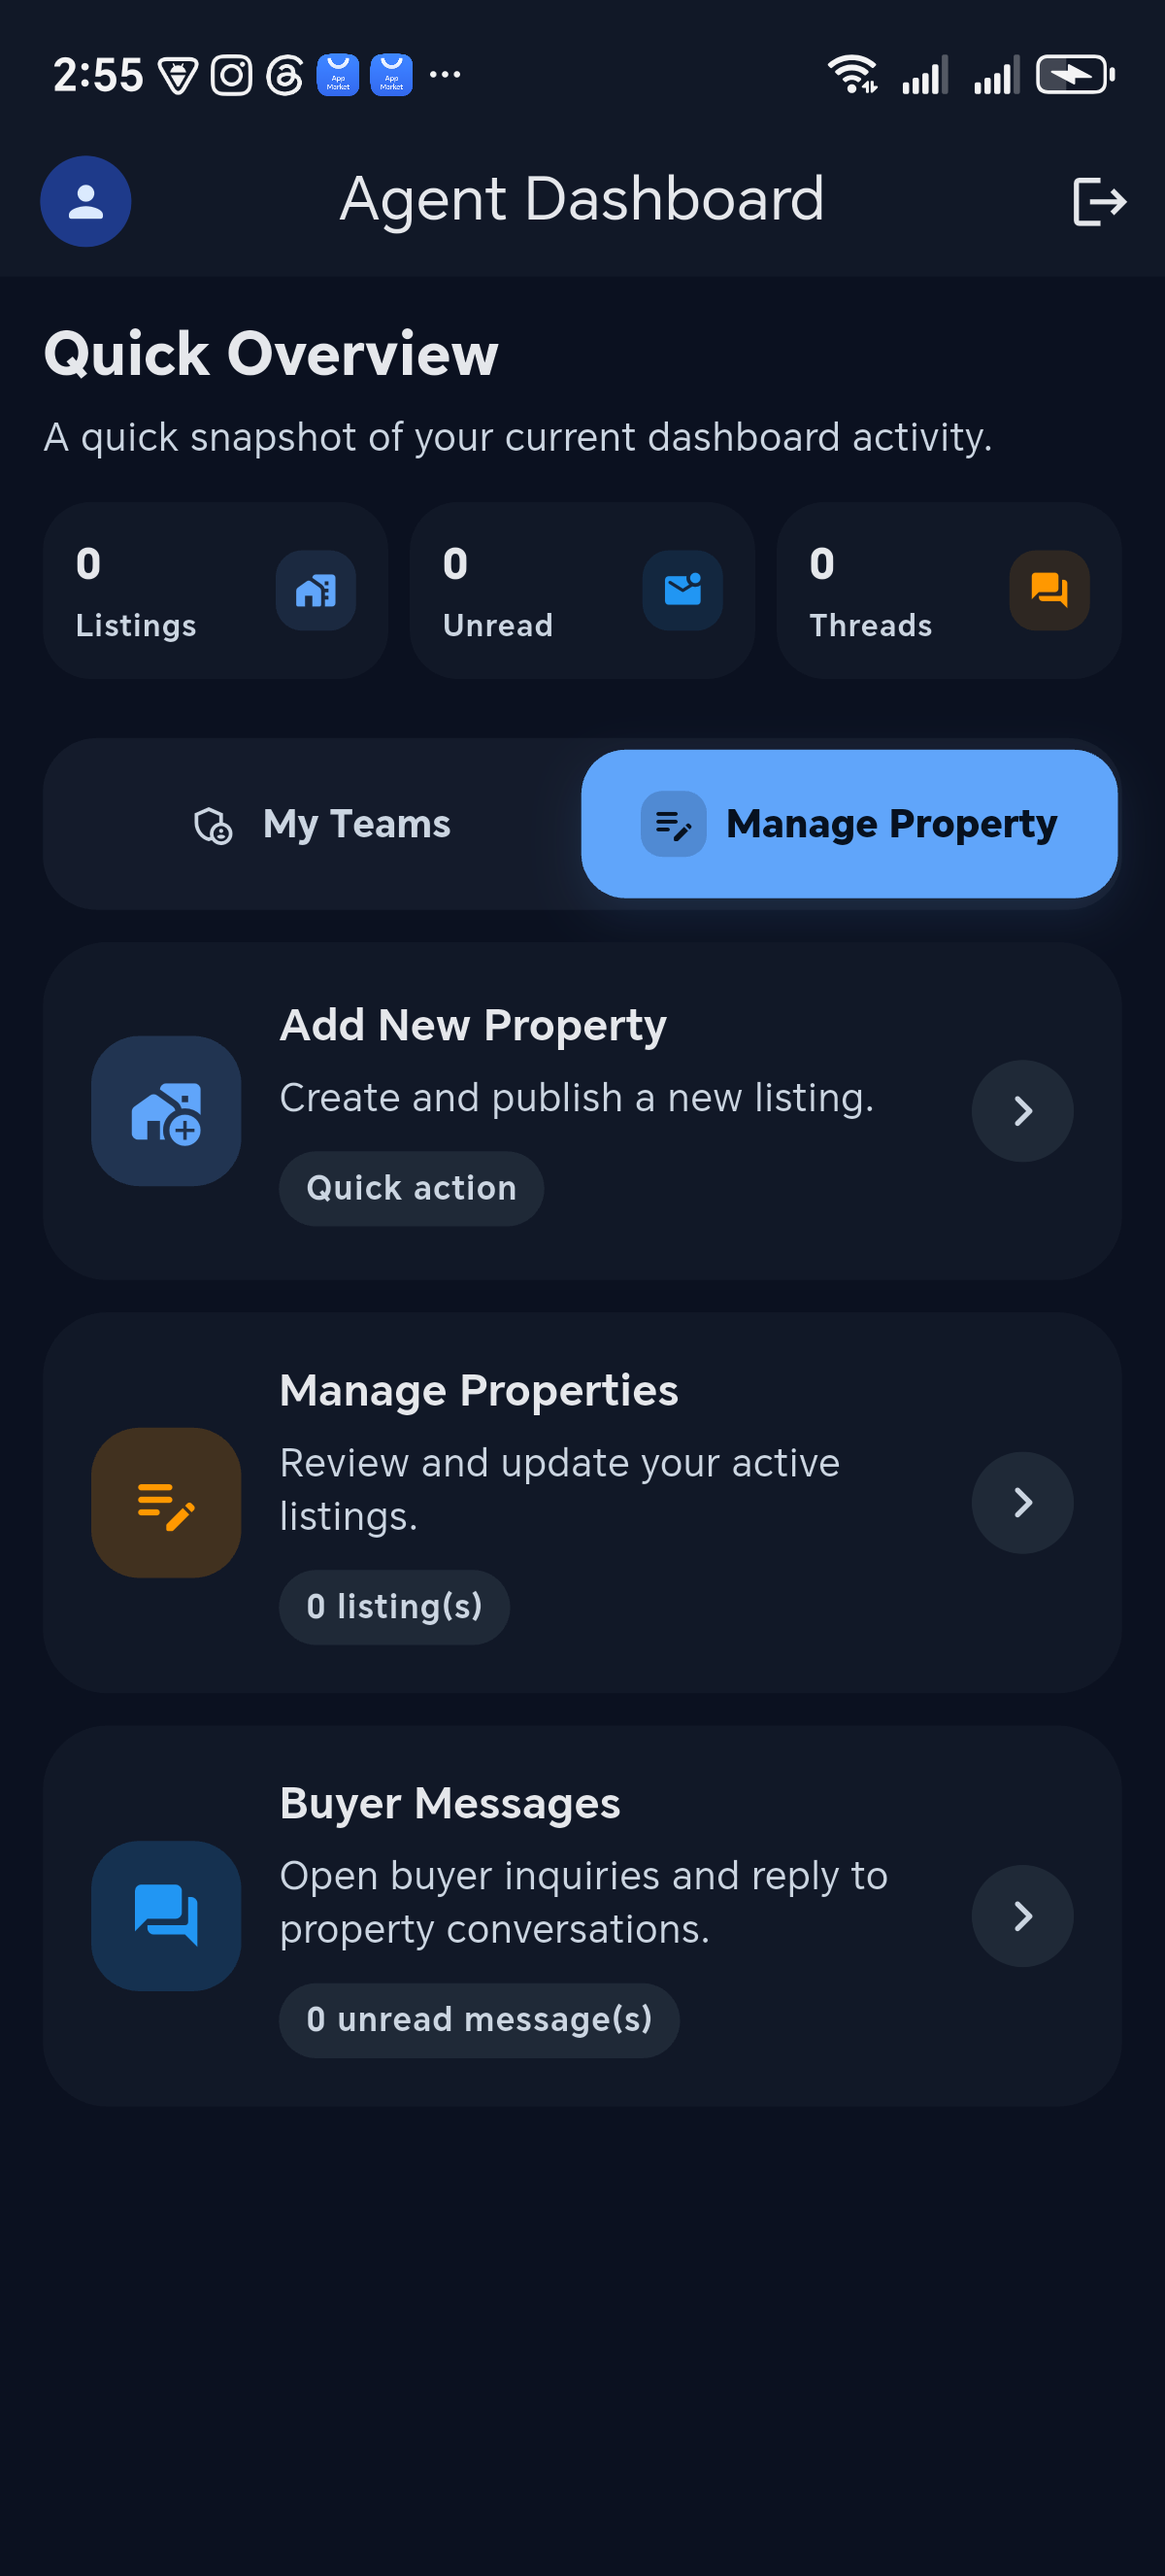
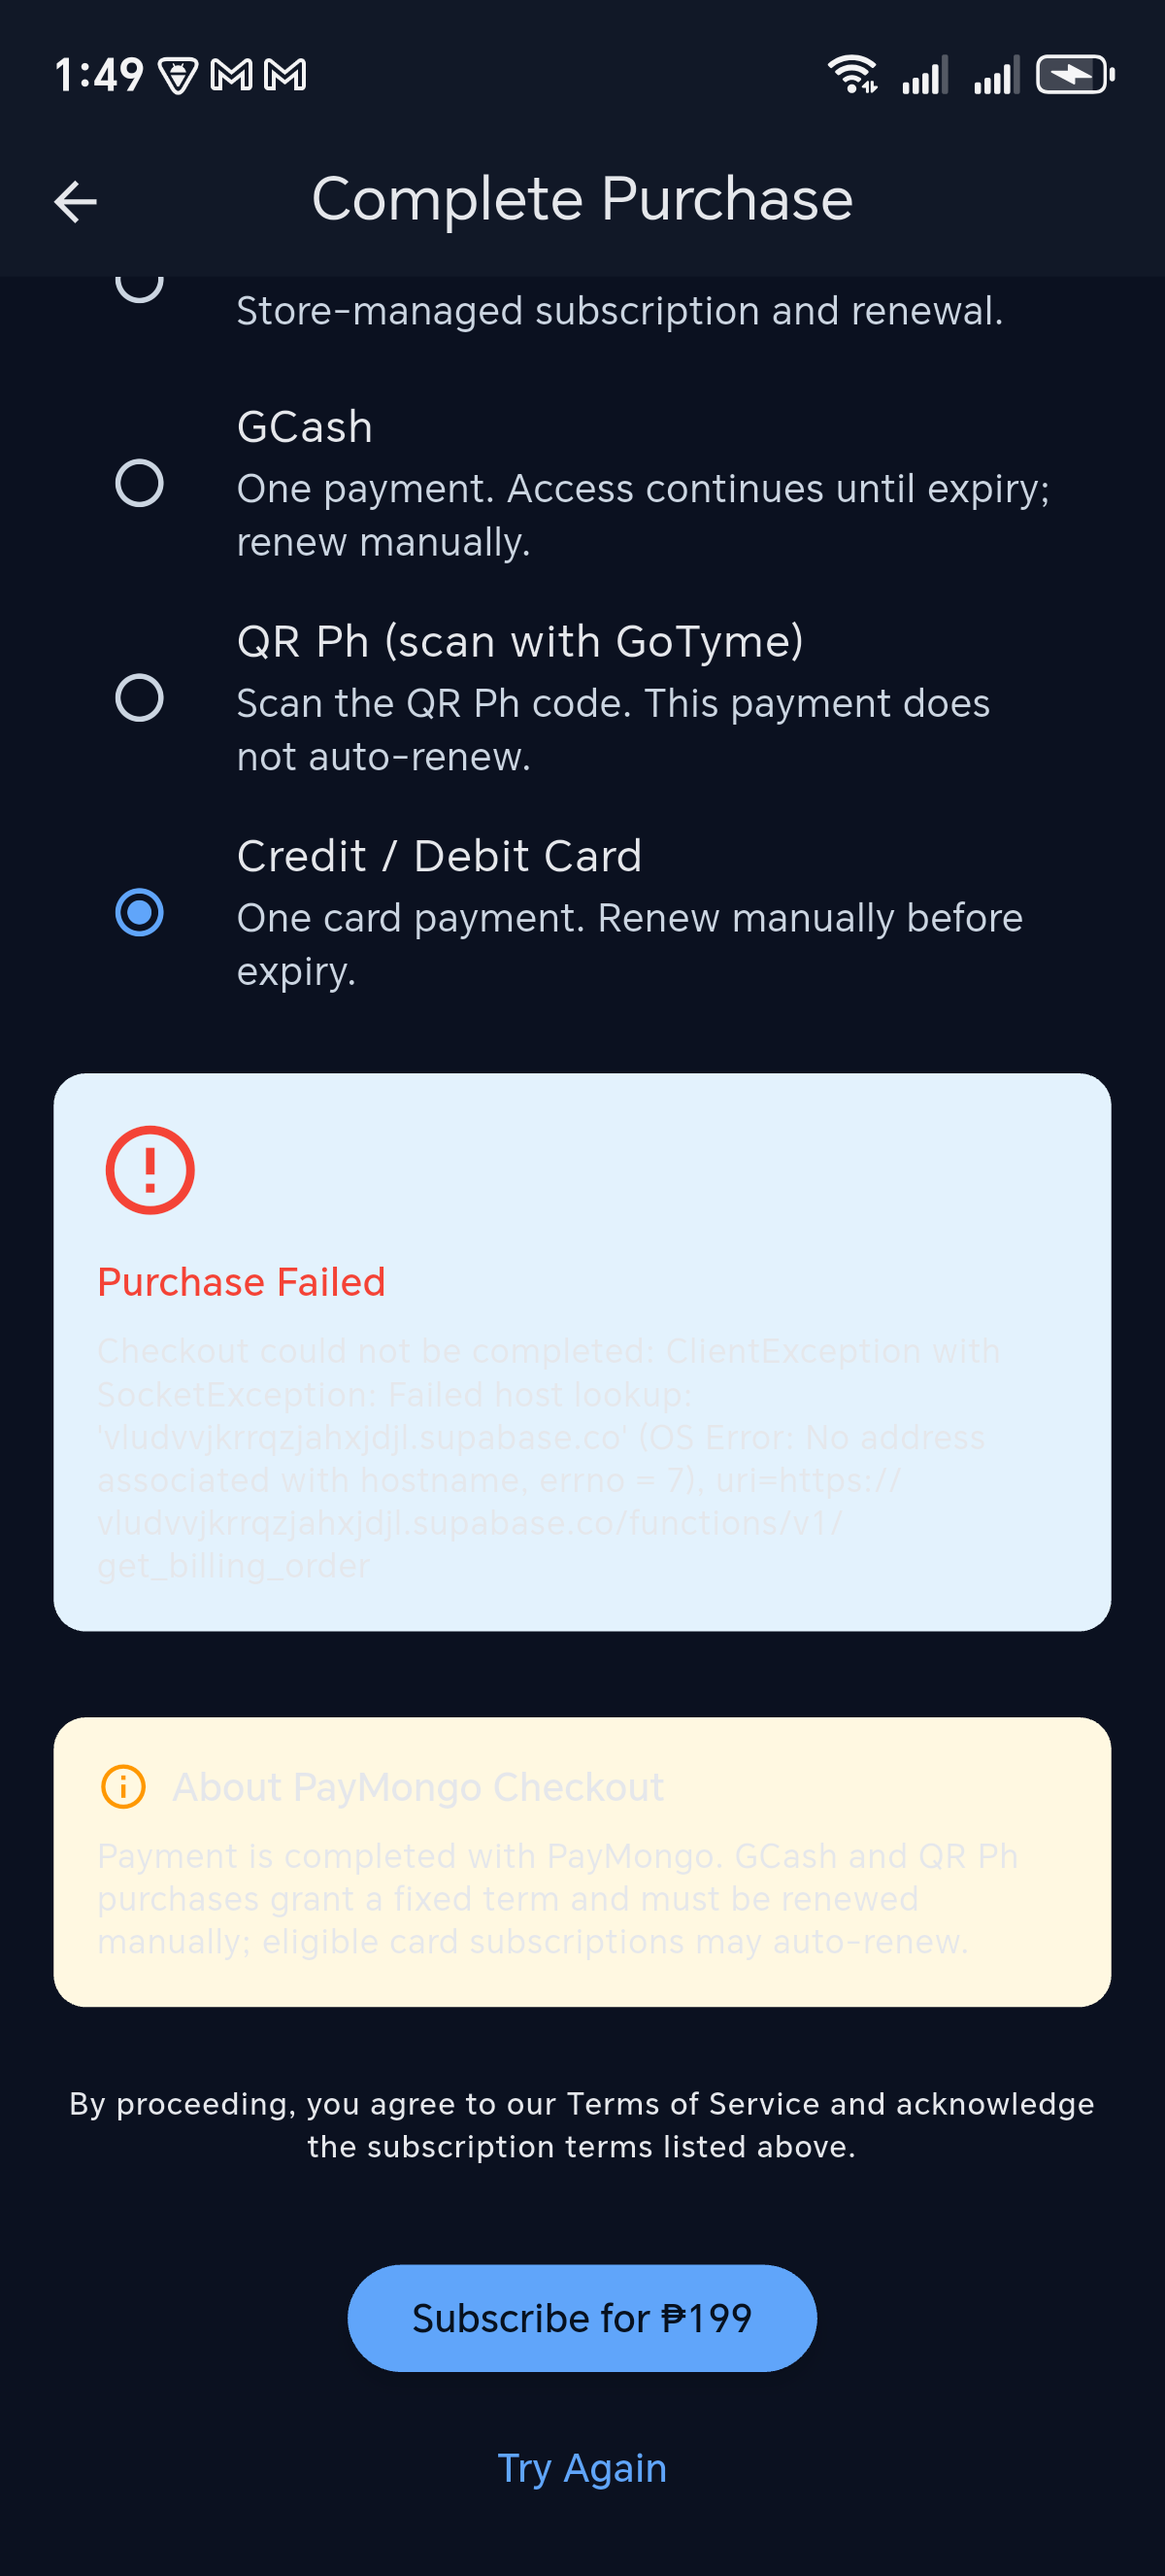
feat: enhance PayMongo webhook processing and improve security policies

diff --git a/supabase/functions/paymongo_webhook/index.ts b/supabase/functions/paymongo_webhook/index.ts
@@ -23,17 +23,42 @@ serve(async (request) => {
     const payload = JSON.parse(rawBody);
     const event = payload.data;
     const attributes = event?.attributes ?? {};
-    const payment = attributes.data?.attributes;
+    const providerResource = attributes.data;
+    const resourceAttributes = providerResource?.attributes;
     const eventId = event?.id;
-    if (!eventId || !payment) {
+    const eventType = attributes.type ?? attributes.event_type ?? "";
+    if (!eventId || !providerResource || !resourceAttributes) {
       return Response.json({ error: "Invalid event" }, { status: 400 });
     }
-    const providerPayment = attributes.data;
-    const metadata = payment.metadata ?? {};
-    const orderId = metadata.local_order_id ?? metadata.order_id;
-    if (!orderId) return Response.json({ error: "Missing order reference" }, { status: 400 });
 
-    const eventType = attributes.type ?? attributes.event_type ?? "";
+    const isCheckoutPaid =
+      eventType === "checkout_session.payment.paid" &&
+      providerResource.type === "checkout_session";
+    const paymentIntent = resourceAttributes.payment_intent;
+    const payment = isCheckoutPaid
+      ? {
+        id: paymentIntent?.id,
+        amount: paymentIntent?.attributes?.amount,
+        currency: paymentIntent?.attributes?.currency,
+        metadata: resourceAttributes.metadata ??
+          paymentIntent?.attributes?.metadata ?? {},
+        status: "paid",
+      }
+      : {
+        id: providerResource.id,
+        amount: resourceAttributes.amount,
+        currency: resourceAttributes.currency,
+        metadata: resourceAttributes.metadata ?? {},
+        status: resourceAttributes.status,
+      };
+    if (!payment.id || !payment.amount || !payment.currency) {
+      return Response.json({ error: "Invalid payment resource" }, { status: 400 });
+    }
+    const orderId = payment.metadata.local_order_id ?? payment.metadata.order_id;
+    if (!orderId) {
+      return Response.json({ error: "Missing order reference" }, { status: 400 });
+    }
+
     const paymentStatus = String(payment.status ?? "").toLowerCase();
     const status = paymentStatus === "paid"
       ? "paid"
@@ -49,7 +74,7 @@ serve(async (request) => {
         ? new Date(attributes.created_at * 1000).toISOString()
         : new Date().toISOString(),
       order_id: orderId,
-      payment_id: providerPayment.id,
+      payment_id: payment.id,
       amount_minor: payment.amount,
       currency: payment.currency,
       status,

diff --git a/supabase/functions/_shared/paymongo.ts b/supabase/functions/_shared/paymongo.ts
@@ -56,9 +56,17 @@ export async function verifySignature(
   const parts = signatureHeader.split(",");
   const timestamp = parts.find((part) => part.trim().startsWith("t="))
     ?.split("=")[1]?.trim();
-  const signatures = parts
-    .filter((part) => part.trim().startsWith("v1="))
-    .map((part) => part.trim().slice(3));
+  const signatures = parts.flatMap((part) => {
+    const normalized = part.trim();
+    if (
+      normalized.startsWith("te=") ||
+      normalized.startsWith("li=") ||
+      normalized.startsWith("v1=")
+    ) {
+      return [normalized.slice(normalized.indexOf("=") + 1)];
+    }
+    return [];
+  });
   if (!timestamp || signatures.length === 0) return false;
   const age = Math.abs(Date.now() / 1000 - Number(timestamp));
   if (!Number.isFinite(age) || age > 300) return false;
